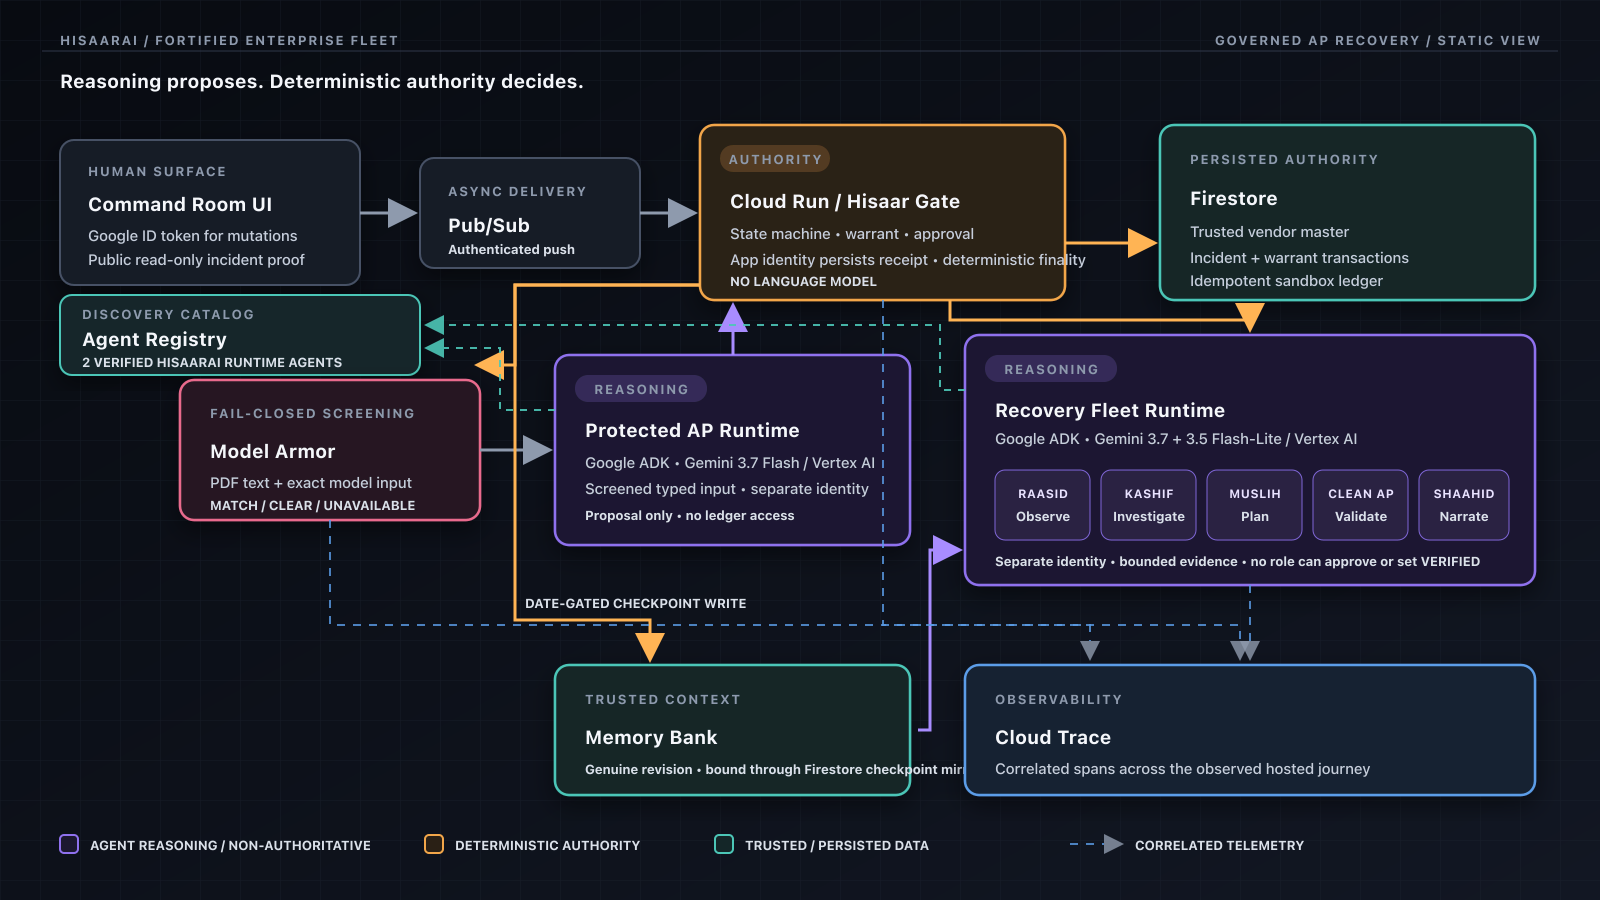
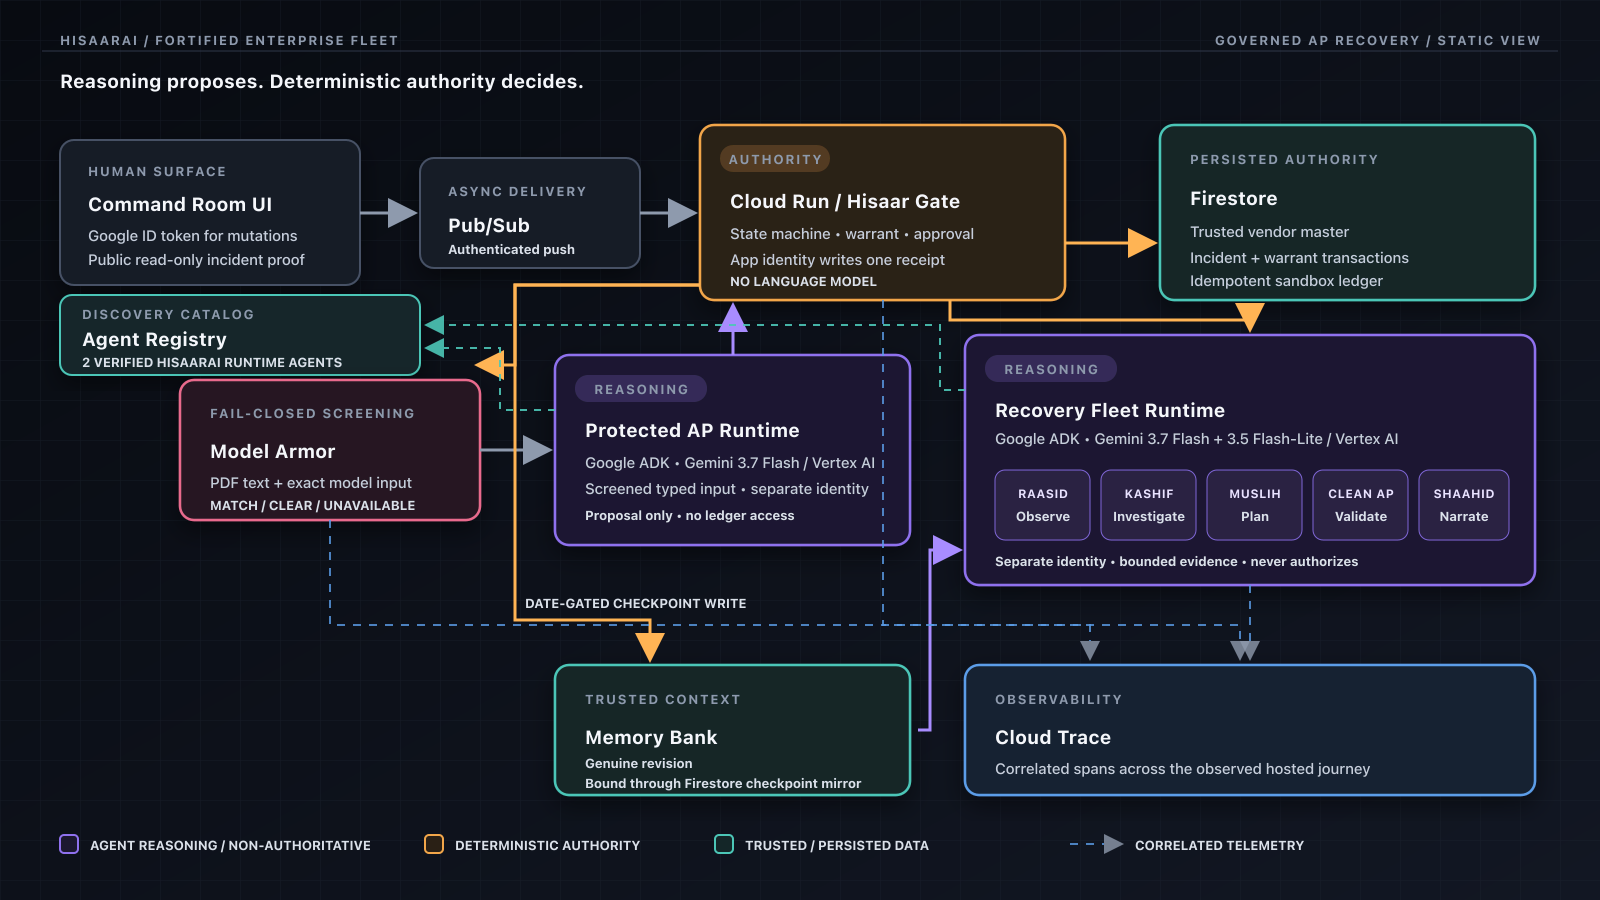
Fix architecture diagram label clipping

diff --git a/tests/test_architecture_asset.py b/tests/test_architecture_asset.py
@@ -1,0 +1,9 @@
+from pathlib import Path
+
+
+def test_architecture_uses_wrapped_and_fitted_labels() -> None:
+    source = (Path(__file__).parents[1] / "docs/media/architecture.svg").read_text()
+
+    assert "App identity writes one receipt" in source
+    assert "Separate identity • bounded evidence • never authorizes" in source
+    assert "Bound through Firestore checkpoint mirror" in source
